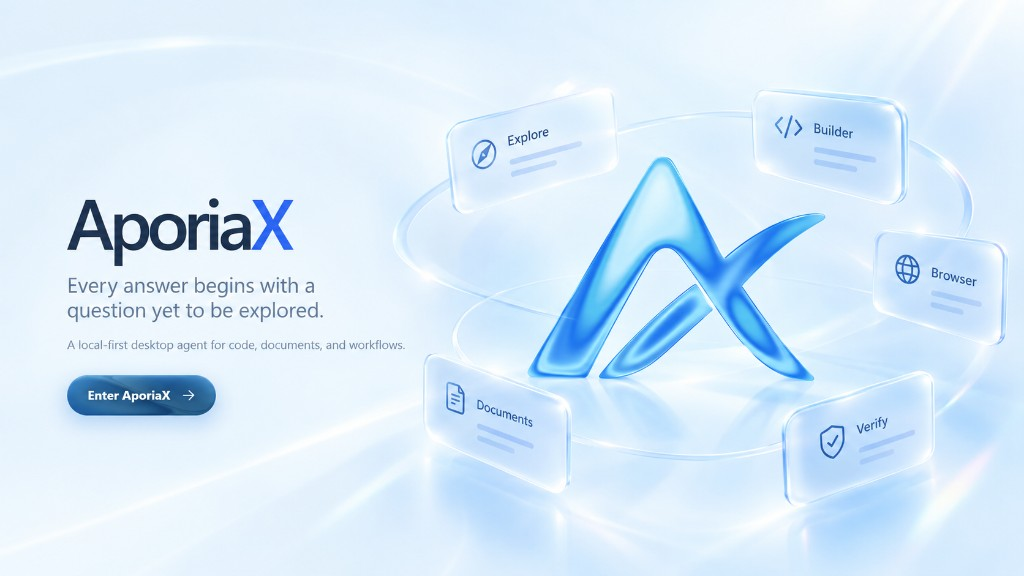
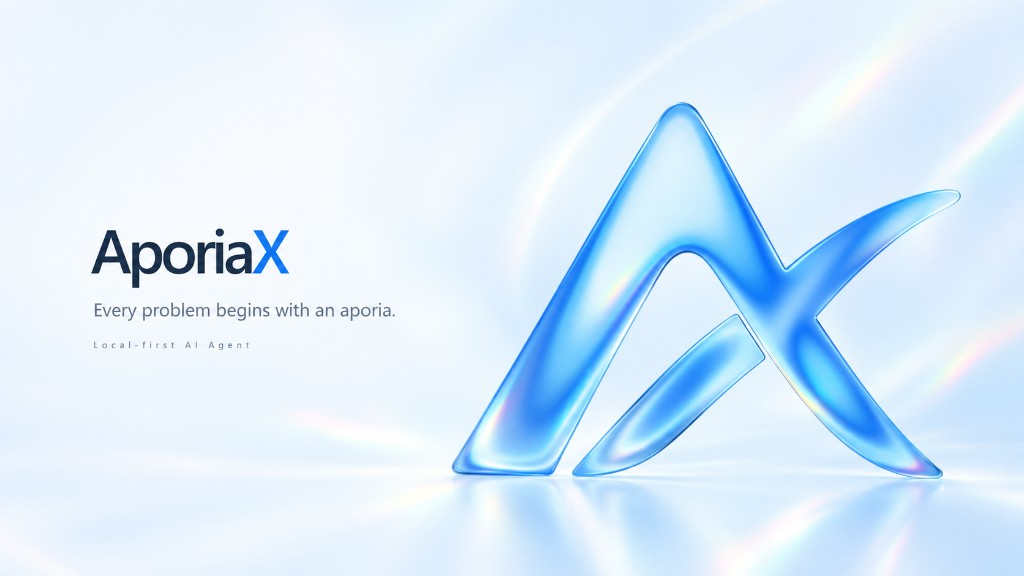
docs: swap the README hero to the simpler light AX

diff --git a/README_EN.md b/README_EN.md
@@ -24,7 +24,7 @@
 </p>
 
 <p align="center">
-  <img src="docs/assets/aporiax-social-preview.jpg" width="100%" alt="AporiaX — Every answer begins with a question yet to be explored." />
+  <img src="docs/assets/aporiax-social-preview.jpg" width="100%" alt="AporiaX — Every problem begins with an aporia." />
 </p>
 
 AporiaX is a local-first desktop agent that turns ambiguous requests into observable, verifiable, and reversible routes. It works inside an authorized workspace, edits code, creates real Office files, and keeps actions, evidence, changes, and deliverables visible instead of reducing the work to a chat response.

diff --git a/README.md b/README.md
@@ -19,7 +19,7 @@
 </p>
 
 <p align="center">
-  <img src="docs/assets/aporiax-social-preview.jpg" width="100%" alt="AporiaX — Every answer begins with a question yet to be explored." />
+  <img src="docs/assets/aporiax-social-preview.jpg" width="100%" alt="AporiaX — Every problem begins with an aporia." />
 </p>
 
 AporiaX 是一个 local-first 桌面 Agent，把模糊需求转化为可观察、可验证、可回退的行动路径。它可以直接操作授权工作区、编辑代码、生成真实 Office 文件，并把每一步修改、验证依据和最终产物留在界面中，而不是只给出一段聊天回复。
